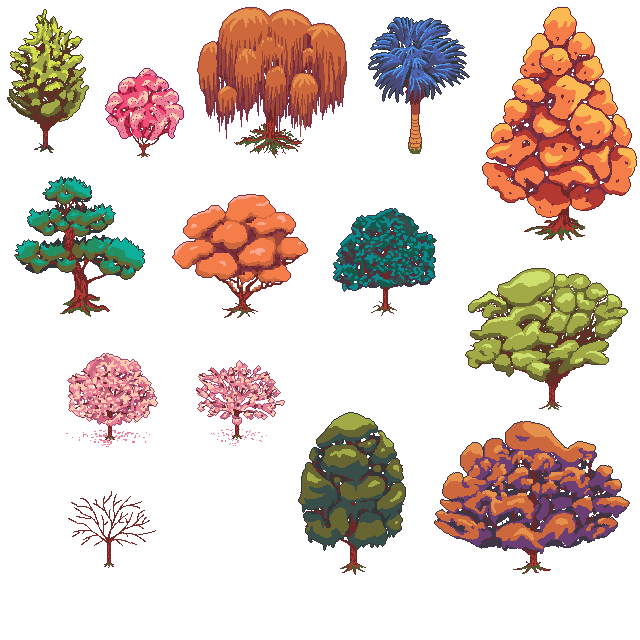
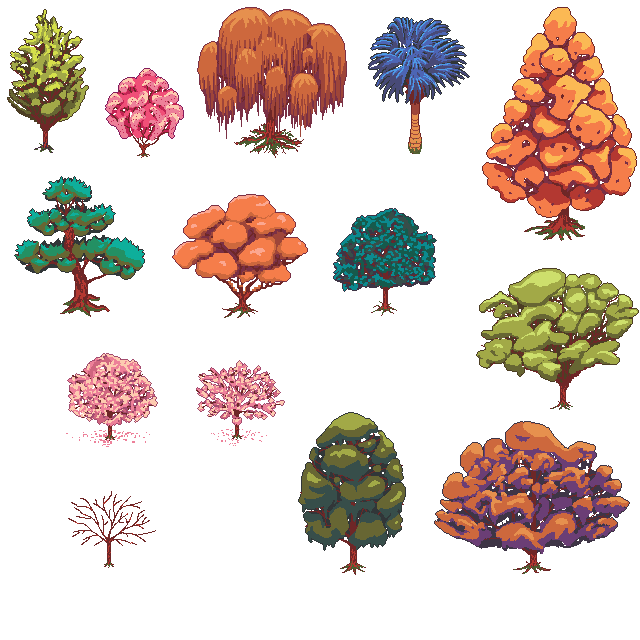
improved the map objects

Changed region(s): [[0.7188, 0.4062, 1.0, 0.6562]]

diff --git a/lib/game/scenes/park_scene.dart b/lib/game/scenes/park_scene.dart
@@ -206,6 +206,8 @@ class ParkMap extends Component with HasGameReference<GomilandGame> {
       'grass',
       'overlays',
       'barriers',
+      'trees',
+      'lights',
     ]);
     add(ground);
     final animationCompiler = AnimationBatchCompiler();
